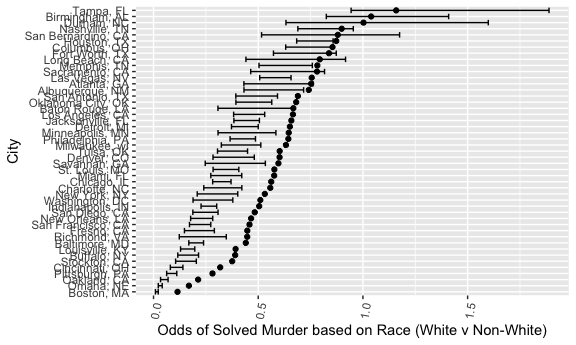
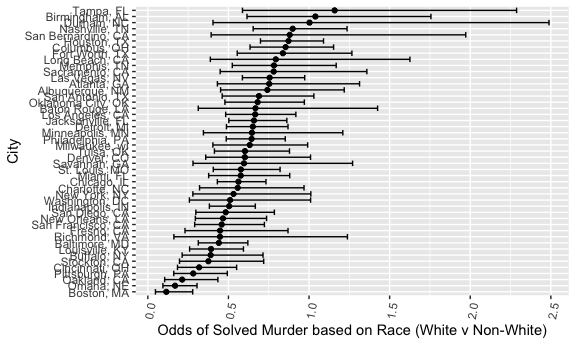
im dumb and cant calculate CI

diff --git a/jv2629_HW6.md b/jv2629_HW6.md
@@ -84,8 +84,8 @@ glm_resolv_func = function(df){
  glm(df$outcome ~ df$victim_age + df$victim_race + df$victim_sex, data = df, family = binomial()) %>% 
     broom::tidy() %>% 
   mutate(OR = exp(estimate),
-         low_OR = exp((estimate*1.96) - std.error),
-         high_OR = exp((estimate*1.96) + std.error)) %>%
+         low_OR = exp(estimate - (1.96 * std.error)),
+         high_OR = exp(estimate + (1.96 * std.error))) %>%
   select(term, OR, low_OR, high_OR)
 }
 ```
